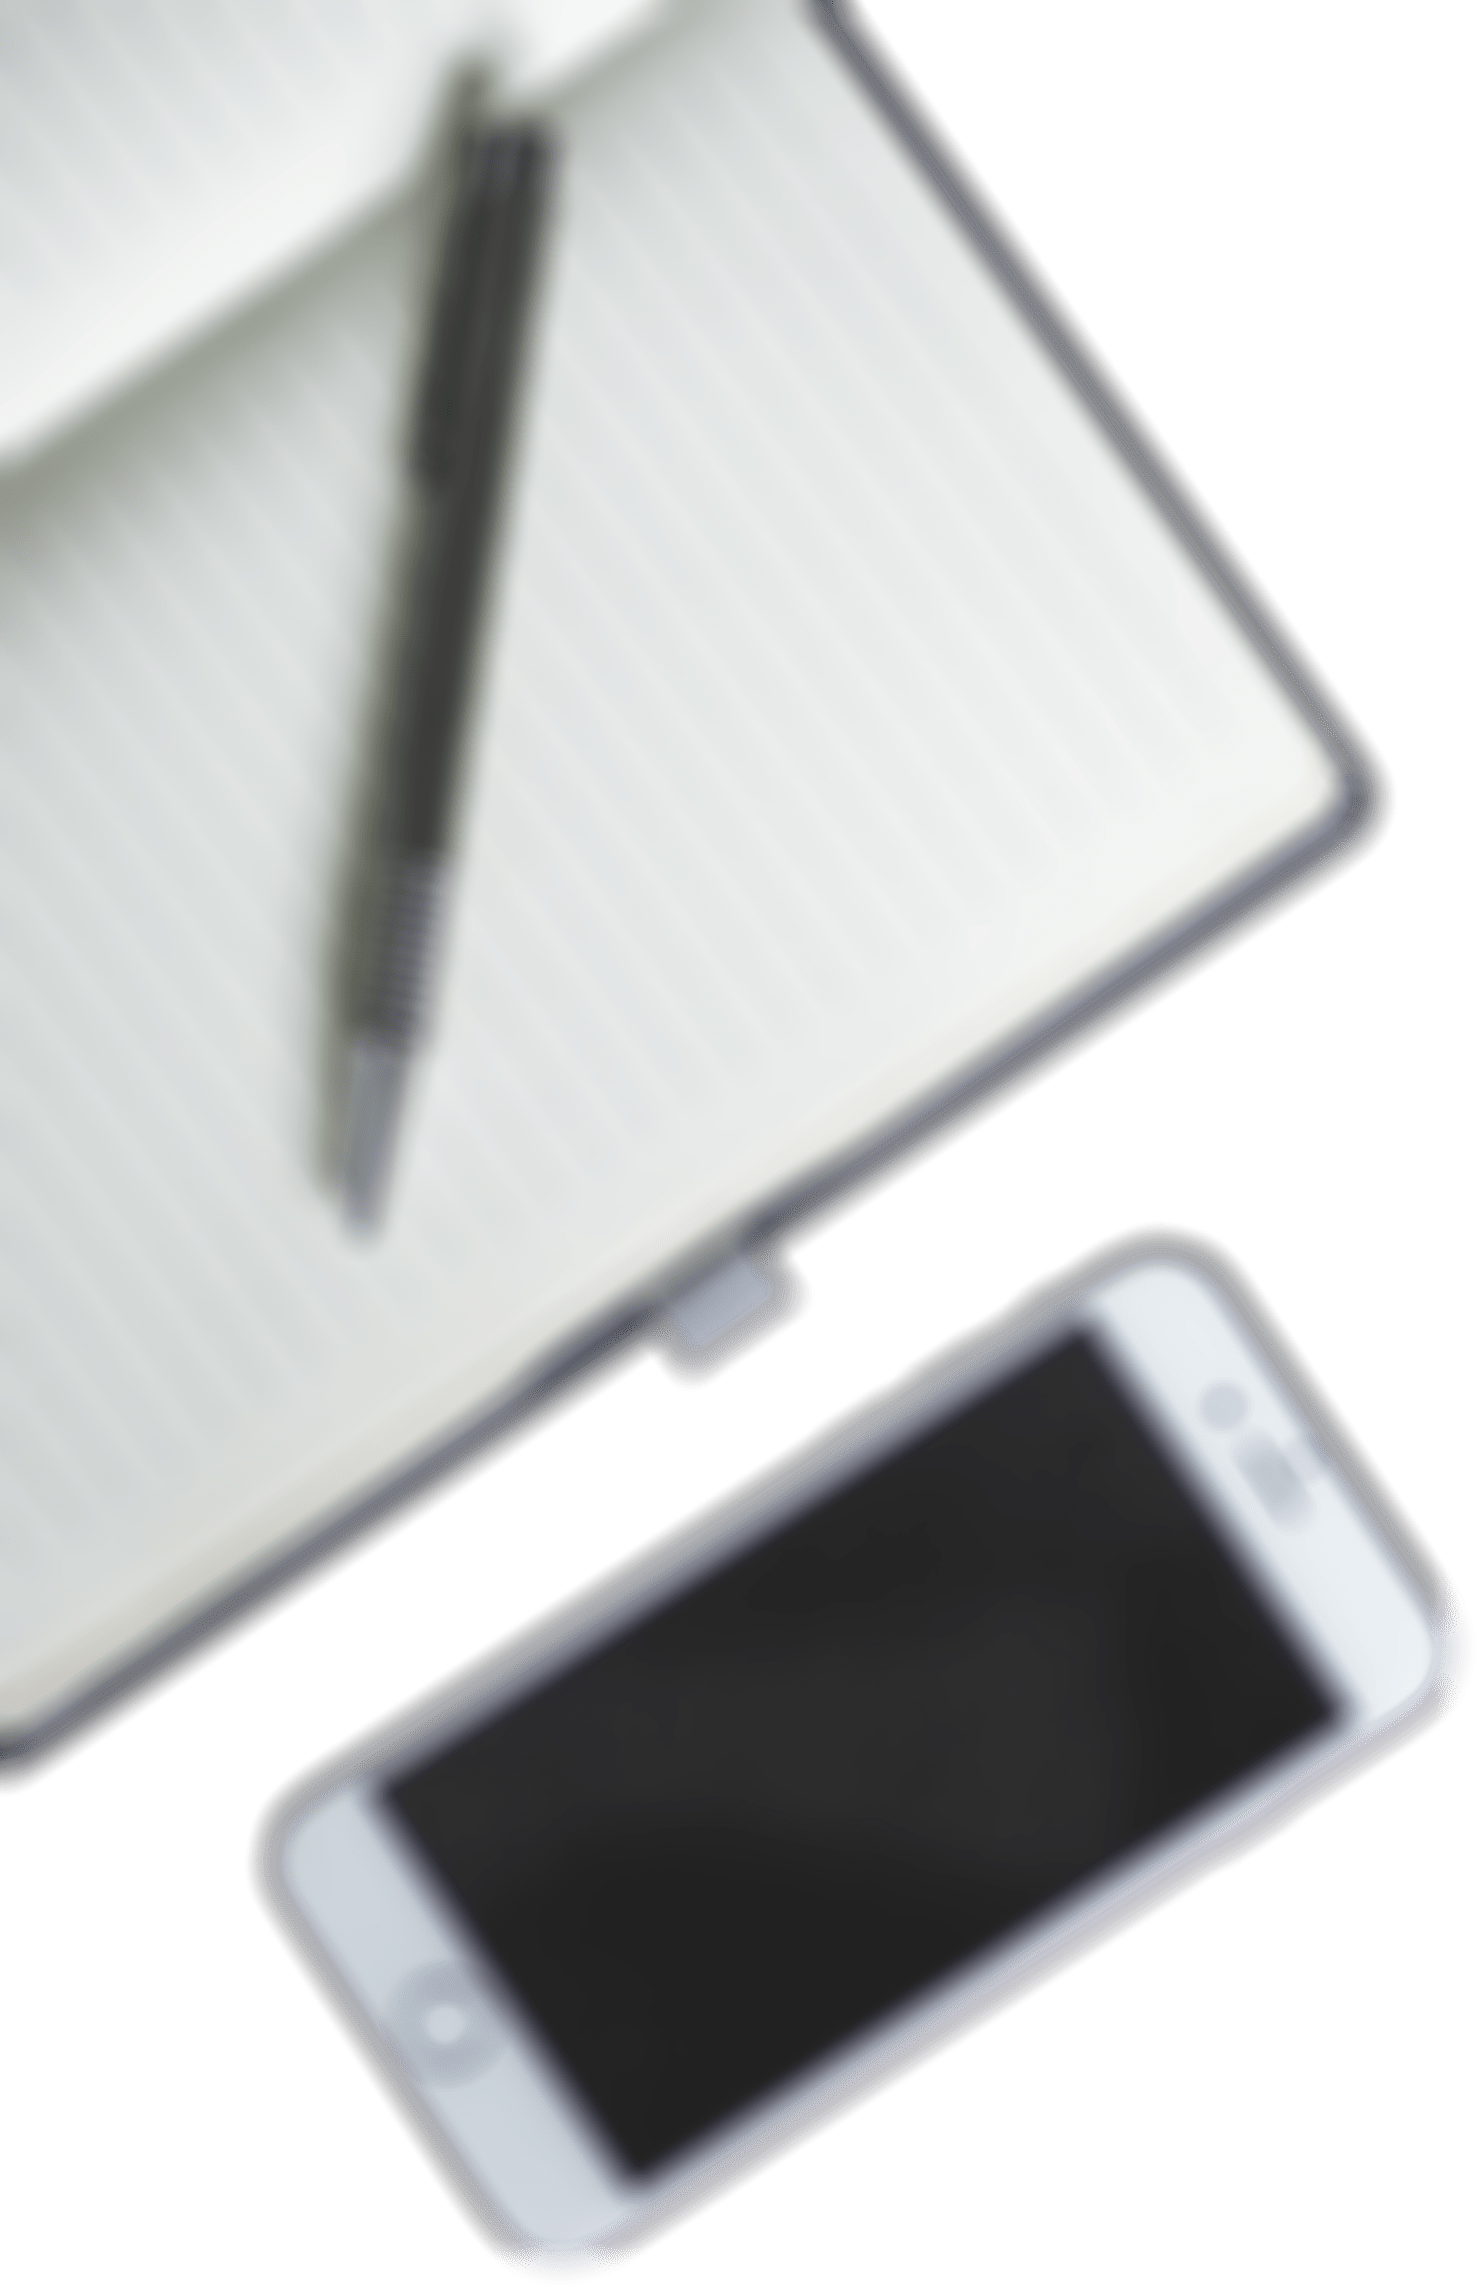
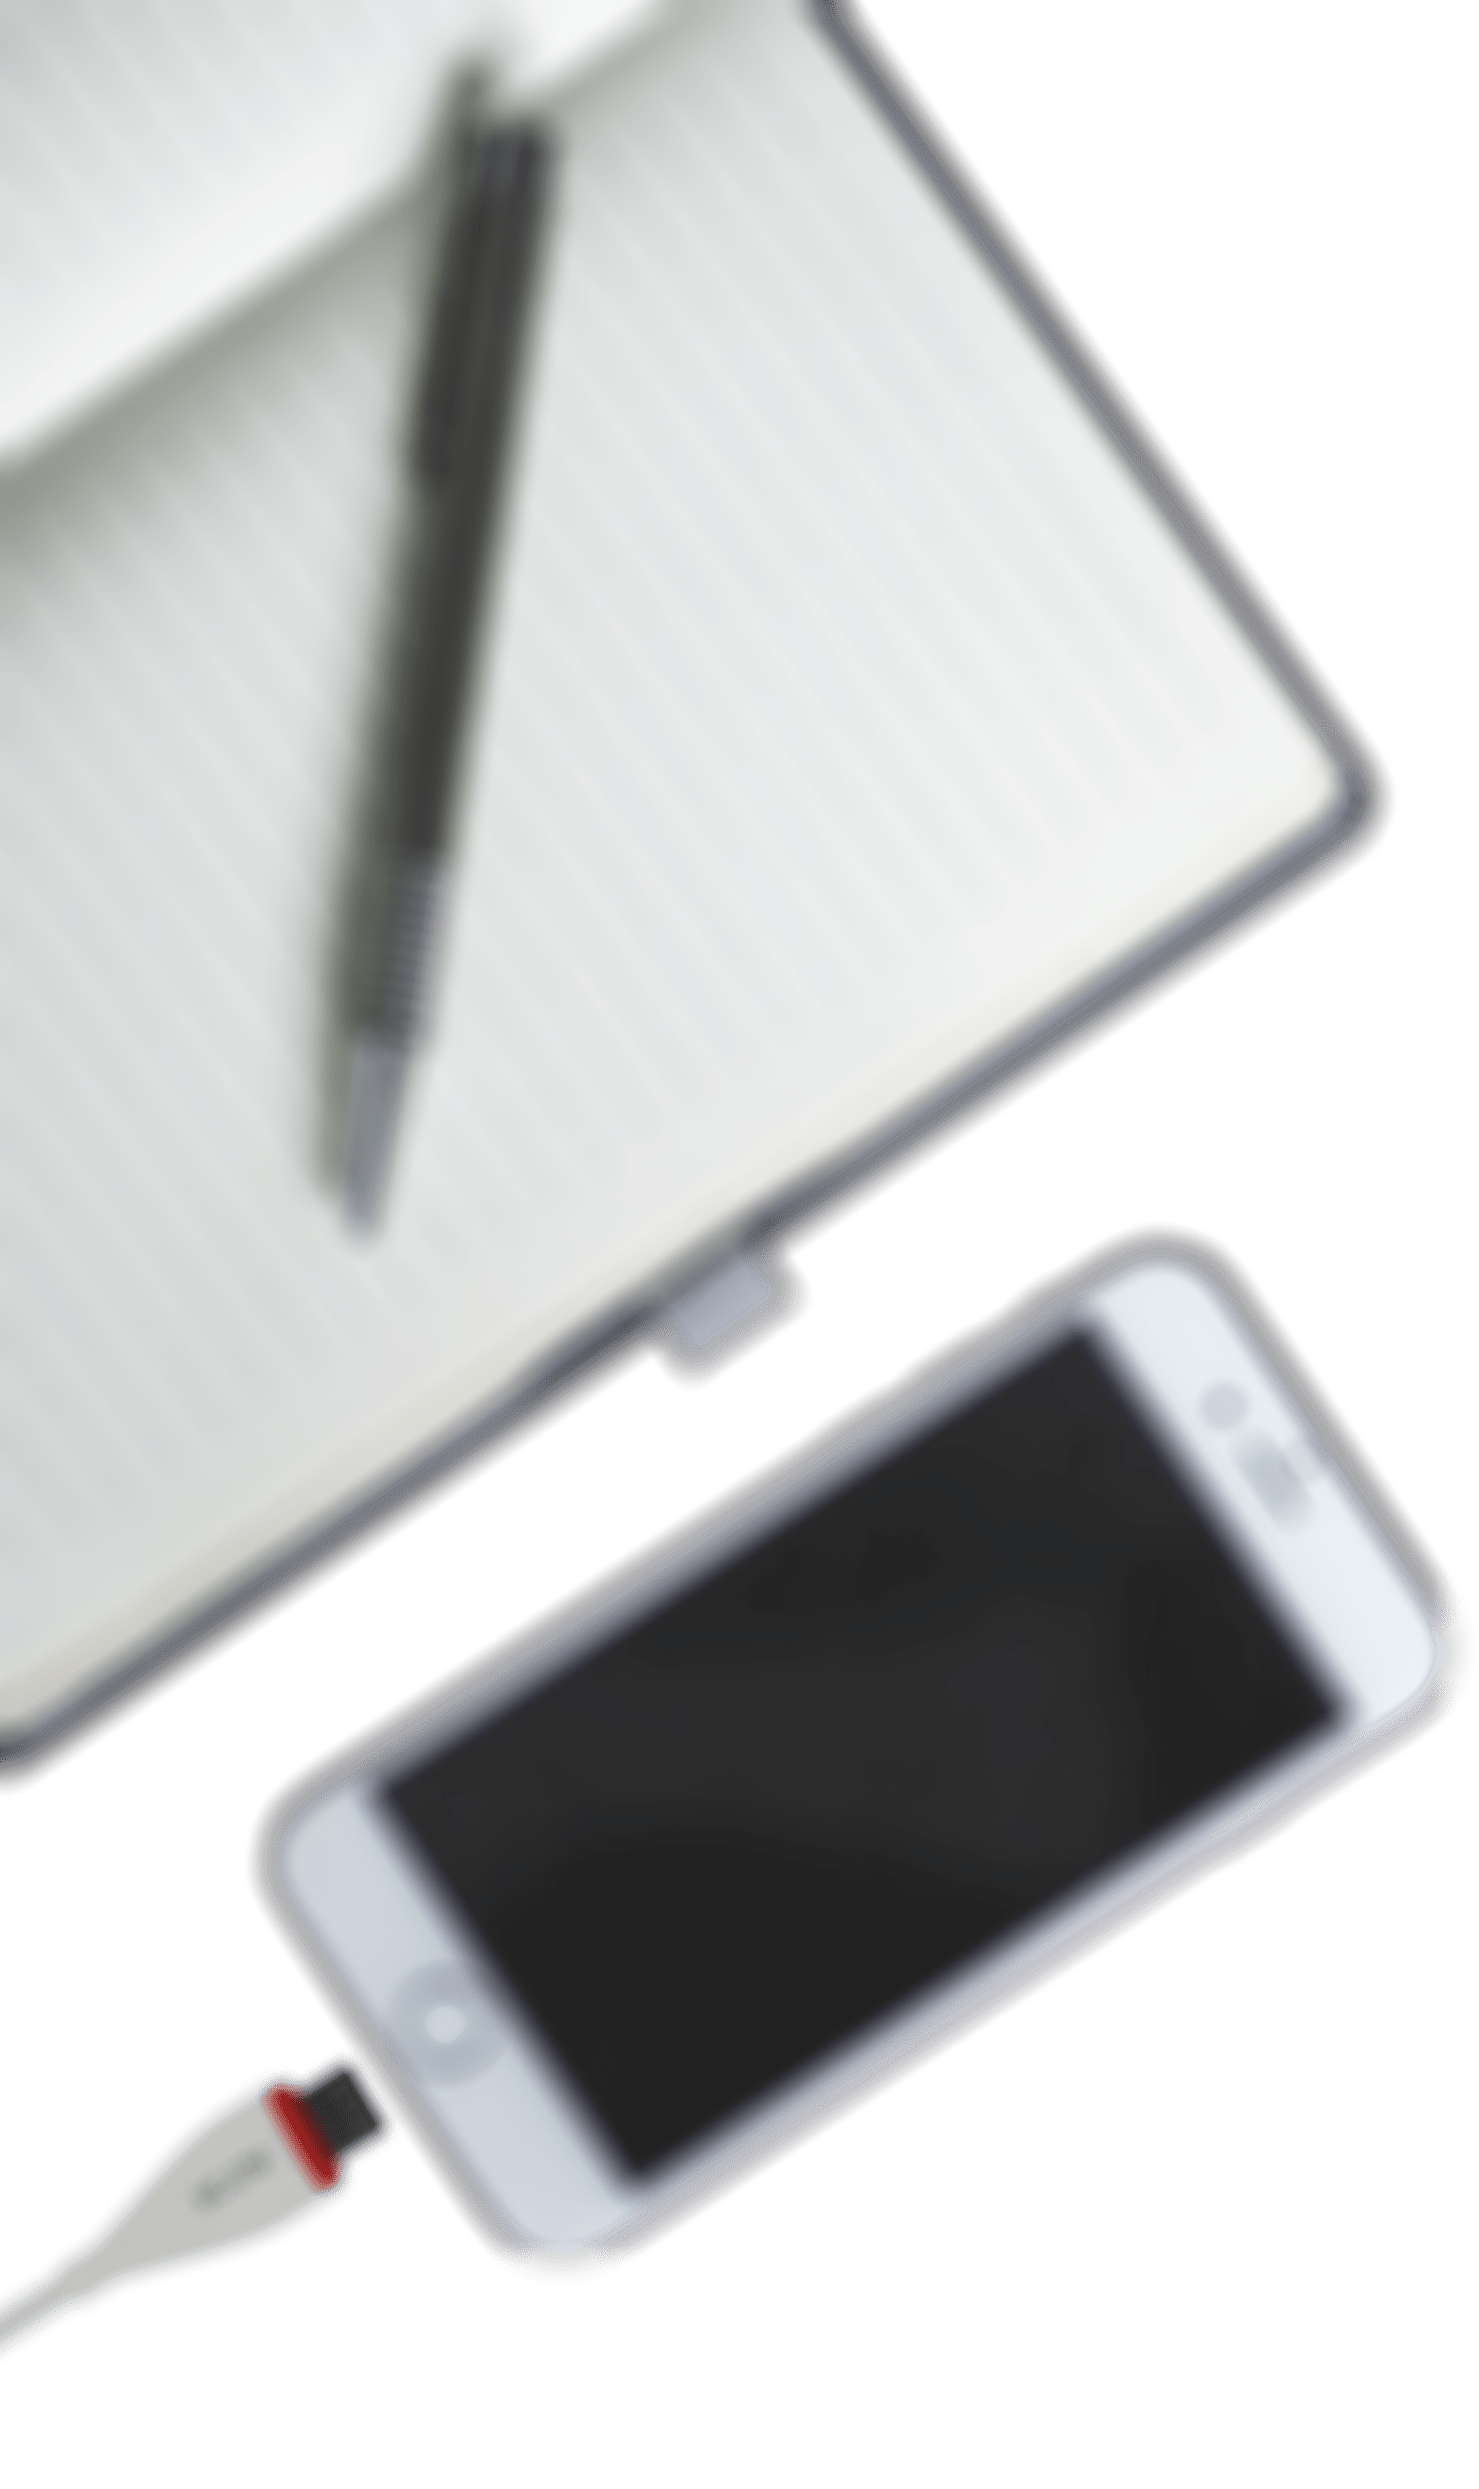
maxvi p2 update

Changed region(s): [[0.0, 0.031, 0.9953, 0.993], [0.0, 0.0621, 0.2799, 0.2483], [0.3421, 0.031, 0.3732, 0.0621]]

diff --git a/2020/maxvi-p2/css/p2-style-responsive.css b/2020/maxvi-p2/css/p2-style-responsive.css
@@ -29,6 +29,11 @@
 		height: 654px;
 	}
 
+	.p2-power-bank .p2-charging-indicator {
+		top: 64%;
+    	left: 41%;
+	}
+
 	.p2-power-bank .p2-media-figure {
 		width: 500px;
 	}
